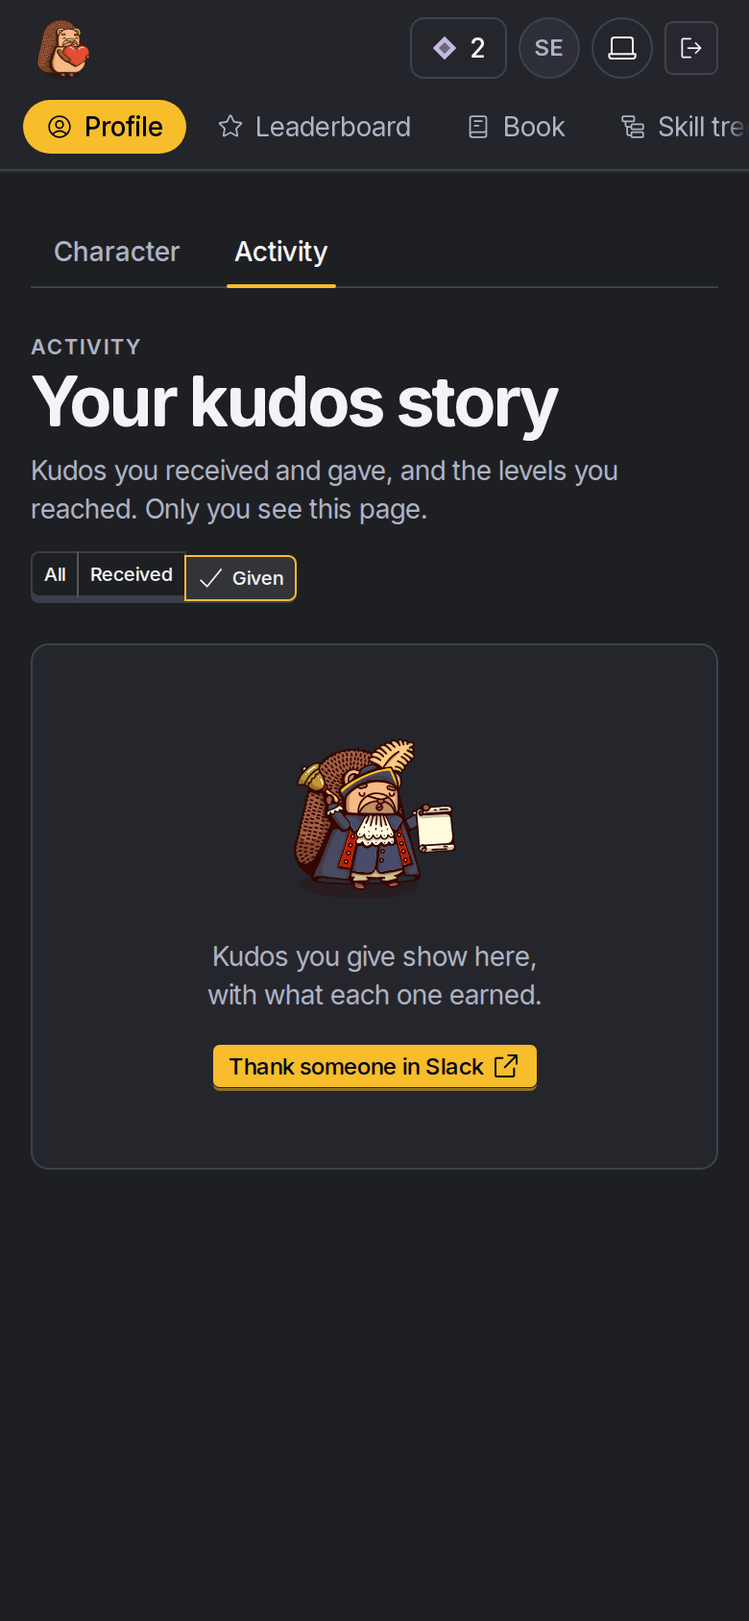
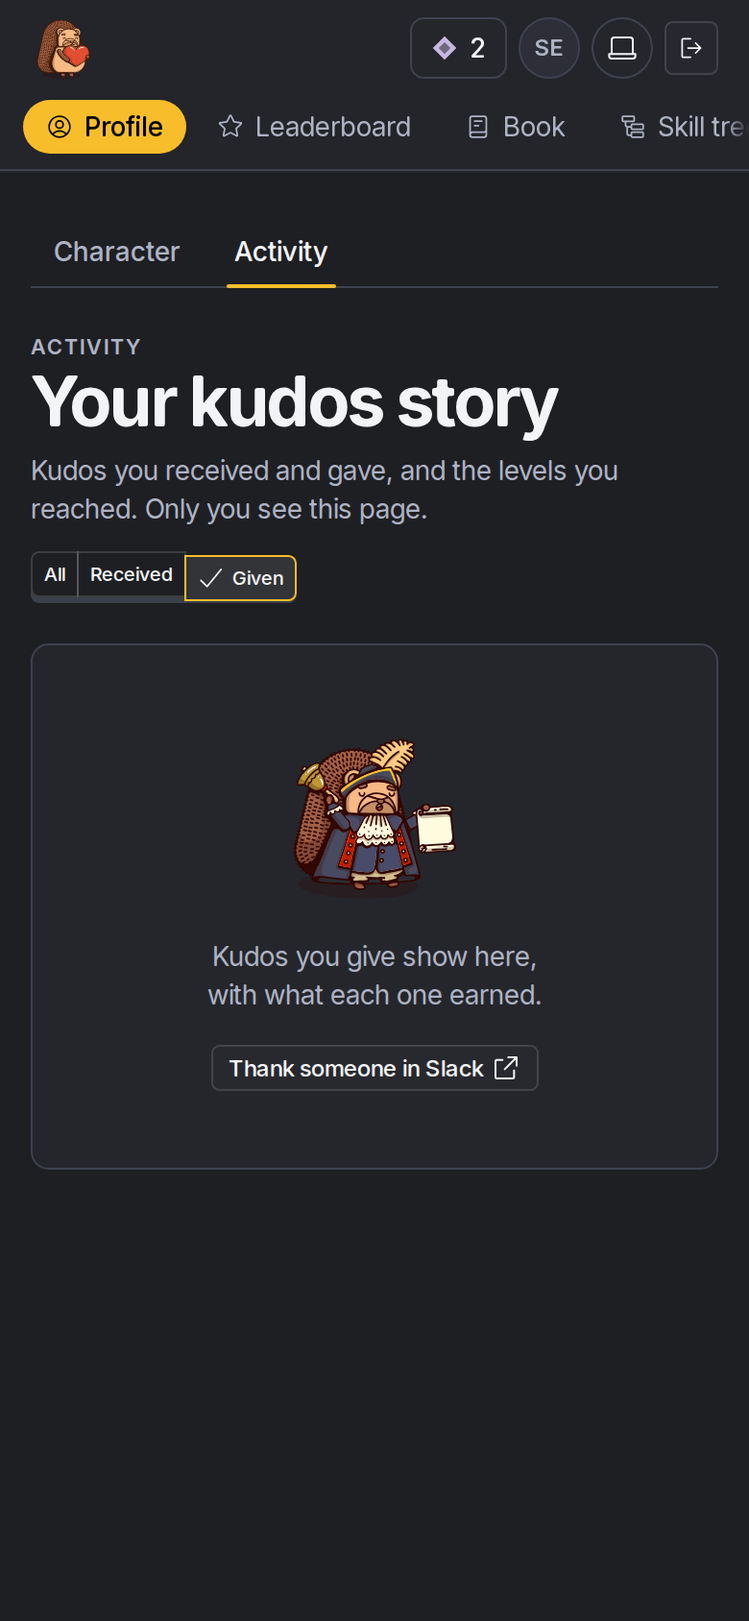
Take the review: an outline action on the empty timeline, a real focus-transfer test, a scoped hedgehog check and the spec clause
From the GPT-6.1 Sol review of #487: the selected filter already carries primary, so the empty state's Slack action is outline (V4); the focus test now presses Show new activity and lands on the empty state; the hedgehog assertion counts one decorative illustration; Website.spec.md names the empty timeline.

Changed region(s): [[0.2769, 0.6469, 0.7385, 0.6777]]

diff --git a/website/src/ActivityPage.test.tsx b/website/src/ActivityPage.test.tsx
@@ -541,6 +541,19 @@ describe("WS214: Show new activity", () => {
     expect(within(main()).queryByRole("button", { name: "Show new activity" })).not.toBeInTheDocument();
   });
 
+  it("lands on Max's empty state, and keeps it focused, when the newest page answers nothing because the raised kudos went away (#481 3)", async () => {
+    const { user, pages, watcher, showVisitor } = await openedWatching(aPage([aReceived("new", now - minute, { giver: teammates.eli }), ...shown], null));
+    await pages.answer(0, aPage(shown, null));
+    await user.click(within(main()).getByRole("button", { name: "Show new activity" }));
+    watcher.state.answer = aPage([], null);
+    showVisitor(member);
+    await pages.answer(1, aPage([], null));
+    const empty = main().querySelector("[data-timeline-empty]");
+    expect(empty).toHaveFocus();
+    expect(empty).toHaveTextContent("Your activity shows here once you thank someone or reach a level.");
+    expect(within(empty as HTMLElement).getByRole("link", { name: "Thank someone in Slack (opens in a new tab)" })).toBeInTheDocument();
+  });
+
   it("keeps focus on the page title while the newest page loads, and there when it fails", async () => {
     const { user, pages } = await openedWatching(aPage([aReceived("new", now - minute, { giver: teammates.eli }), ...shown], null));
     await pages.answer(0, aPage(shown, null));

diff --git a/website/src/statesPolish.test.tsx b/website/src/statesPolish.test.tsx
@@ -44,9 +44,14 @@ describe("#481 3 V23: an empty timeline is Max's empty state, with one hedgehog,
     await pages.answer(aPage([], null));
     const empty = main().querySelector<HTMLElement>("[data-timeline-empty]")!;
     expect(empty).toHaveTextContent(sentence);
-    expect(empty.querySelector("svg[aria-hidden='true'], svg")).not.toBeNull();
+    const illustrations = [...empty.children].filter((child) => child.tagName.toLowerCase() === "svg");
+    expect(illustrations).toHaveLength(1);
+    expect(illustrations[0]).toHaveAttribute("aria-hidden", "true");
+    expect(within(empty).queryByRole("img")).toBeNull();
     const action = within(empty).getByRole("link", { name: "Thank someone in Slack (opens in a new tab)" });
     expect(action).toHaveAttribute("href", member.chatUrl);
+    expect(action).toHaveClass("quill-button--variant-outline");
+    expect(main().querySelector(".quill-button--variant-primary")).toBeNull();
     expect(within(main()).getAllByRole("link", { name: /Thank someone in Slack/ })).toEqual([action]);
   });
 

diff --git a/website/src/pages/ActivityPage.tsx b/website/src/pages/ActivityPage.tsx
@@ -108,7 +108,7 @@ function EmptyTimeline({ filter, chatUrl }: { filter: ActivityFilter; chatUrl: s
     <section data-timeline-empty tabIndex={-1} aria-label="Nothing yet" className="flex flex-col items-center gap-4 rounded-lg border bg-card px-4 py-10 text-center outline-none focus-visible:ring-2 focus-visible:ring-ring">
       <HedgehogTownCrier size={96} title="" />
       <p className="max-w-md text-balance text-sm text-muted-foreground">{filterNamed(filter).empty}</p>
-      <SlackLink chatUrl={chatUrl} variant="primary">
+      <SlackLink chatUrl={chatUrl} variant="outline">
         Thank someone in Slack
       </SlackLink>
     </section>

diff --git a/website/Website.spec.md b/website/Website.spec.md
@@ -1,6 +1,6 @@
 # Website
 
-The browser package, the signed-in surface where a member sees their kudos beside App Home: a React shell in the PostHog brand, light and dark, with the HedgeHug logo beside the wordmark in its header, above the name on the closed page and as its favicon, and a sign-in page that stands alone without the header: a narrow card with the hand-clasp hedgehog above the name, a full-width primary action to Slack and, while a deep link to a listed path waits, the path the member lands on afterwards, built by Vite and served from the deployment's own `*.convex.site` root by the static hosting component, after Slack's routes, with a strict Content Security Policy header on every HTML response. The shell holds no member data: it signs in with Slack through Convex Auth's React client and returns to the page the sign-in started from, keeping the one-time code in the query string until Convex Auth redeems it, renders one page from the one answer getMyProfile gives (closed, signed-out, verifying, unverified, not-a-member or member), where a member's home leads, only while getRecentKudos answers with its entries, with "Character" and "Activity" link tabs in a nav named "Your page", and then with a character header: the member's face as a portrait, while the answer carries a progression a neutral level ring filled to the level's share and named for the level and the XP to the next, then the member's name as the page title, the invitation to thank someone and its one action in Slack before every counter, while there is a progression a full-width neutral XP bar, the kudos left today as the header's one big number with a pip for each kudos of the base and the refill time, the lifetime given and received in one quiet line, and Max's line on this week; the same filled ring on the avatar, a link to `/`, while there is a level, and one panel in its own place for each feature with a page: the hero, the Journey, while getMyProfile carries an inventory an "Inventory" panel with the coin balance and a "Kudos emoji" section saying how many of its slots are filled, the owned items with the slot each sits in, and under "Not yours yet" the rest of its catalogue with the price in coins or the silver tier that gives each, a custom kudos emoji drawn as its Slack picture named by its name and as that name once the picture fails, with no Buy, and then the Book's and the tree's panels in the main column, and, in a right rail that follows the main column on narrow screens, the public profile card under "What teammates see" with the face, the name and "Lv {level}" while there is a level, and below them the best medals getProfileCard answers on the home, each in its tier's metal with the tier's word beside its name, saying that XP and received kudos stay with the member and, while the card answers but the Book has an unopened entry on the unlock path, that medals join the card only after the Book is opened, busy while getProfileCard loads and saying the medals didn't load when it fails, then, only while getRecentKudos answers with its entries, a private "Recent kudos" card with a Received and Given switch, Received on every load, listing the last three kudos either way with their faces, who thanked whom, the words clamped to two lines with links as text and the day, or a line saying where they will show, and "See all activity" linking to `/activity` on the chosen side, then the quests' and the leaderboard's panels. While the answer carries no unlock path, each panel is plain and locked, with the leaderboard's linking to its page while the answer says it is open; while it carries one, only the shipped features it lists have a panel: locked with the feature's hedgehog in silhouette under a padlock, "Unlocks at level {level}" and no progress, ready as its closed crate labelled with what it unlocks and an outline "Open" inside corner marks, or open: the Book's and the tree's with their line, which for the tree counts the skill points to spend, and a link to its page; the quests' as "Quests this week" from the getQuests answer the shell already holds, each quest's goal linking to `/quests` with a neutral progressbar while in progress, "Claim" linking to that quest's card while finished and "Claimed" once opened, as on the quests page, or Max's line and an outline action to Slack when nothing was drawn, then the bonus quest getQuests answers as the last row, tagged "New", with "Claim" beside it while finished, linking to its card at `/quests?quest=journey`; and the leaderboard's as "Where you stand" from one getLeaderboard subscription for this week, with the member's rank, "tied" when tied, and the faces and kudos given of the rows above and below, or the leaderboard page's own line while unranked or off the boards. Each of those two reads has one rendering per answer: busy while it loads, "Can't reach HedgeHug" in place of the home once the socket stays unconnected before it answers, the locked or ready panel while it says so before getMyProfile does, nothing when not found or denied, and only the link to its page when it fails. While the answer carries Journey steps, a Journey panel sits between the hero and the Book panel, listing each active step's goal, hint and XP, a finished step as its reward crate with an outline "Open", and an opened one as done, with no step count. The path picks the page: the home at `/`, the leaderboard at `/leaderboard` with its period in the query string, the quests at `/quests`, the Book at `/book` with its page in the query string, the skill tree at `/skills`, the member's activity at `/activity` with its filter in the query string, and the not-found page everywhere else. The screen nav links `/` as `Profile`, then lists each shipped feature that has a page in the path's order: an open one as a link, a ready one as a button that opens its crate, and a locked one as an entry that is not a link and names its level, the first marked as the next unlock, and its page renders the one answer getLeaderboard gives for the period: the board card with the member's standing, a headline naming the lead, a neutral podium where a tie stands level, the rest of the window with a gap line, the whole board centred on the member with their row pinned and "Jump to me" while it is scrolled away, at the top of the side column, while getSpotlight answers, one public kudos that said why under "A thank-you from your workspace", drawn once per visit of the board by a one-shot read from a random seed and never changed without a press: the giver's face, who thanked whom, the whole message with live links, its date and "Open in Slack" while it has a permalink, and an outline "Next" as its only control, which reads the kudos after the shown one, follows skipped answers at once up to ten a press and resumes from the last one, and says in the message area, live after the first press, the new kudos, that it is the only one so far, or that none was found; Max's line when none qualifies yet or the first draw fails, with "Try again" after a failure, and no panel while the read answers not found; the private improvement line and how it counts, naming achievements, and coins while the profile carries them, among what never ranks anyone, with a switch "Show me on the leaderboards" whose position always follows the answer's setting, never the value sent, which sends setBoardVisibility once over HTTP, never through the socket's queue that replays an unanswered mutation after a reconnect, is disabled while the call is pending, never sends again by itself, shows its switched-off track and thumb and its keyboard focus at 3:1, and says the setting it set while the read shows it, a refusal or an unreachable server until the read shows what the member asked for, each line retired once the read has moved past it, in a live region that stays in the accessibility tree while empty, and, for a member off the board by choice, a line in place of their row pointing to that switch, or one hedgehog and an action to Slack when nobody is ranked; while the answer is locked, Max says that sentence instead, with a link home, and while it is ready, the page shows the crate with a primary "Open" in its place. The activity page shows only while one live getActivity subscription for the filter's newest page answers with its entries, and is not found while it answers not-found: the same tabs with "Activity" current while the screen nav keeps its first entry current, the title "Your kudos story", a "Show" switch of All, Received and Given that replaces the address and starts again from the newest page, then the entries in the read's order under centred day headings in the answer's time zone, laid out like a chat whose sides come from styling alone, so reading and focus order never take one side first, each page read once with getActivity's cursor, 20 at a time: a kudos received on the left, its words in a card-coloured bubble at most four fifths of the width with the giver's face beside it, then a "Private channel" tag only while its channel is private, never while it is unknown, a "Said why" tag and "Open in Slack" while it has a link; a kudos given on the right, its words in a primary-tinted bubble of the same width, then up to three recipients' faces and what it earned: its XP, each perk bonus with what it pays for, and each quest it finished, then the same tags, the names and the kudos each heading it; and a level reached as a ring on a centred rule with the level. Every kudos message draws each emoji from the first source it has: for a skin-toned name, the character the shortcode table Slack follows gives that name with its tone, then Slack's unicode, then the picture, then the table's character for the name without its tone; for any other name, Slack's unicode, then the picture, then the table's character by name or alias; the picture is a custom workspace emoji's, at text size and named by its name between colons, and an emoji with none of these, or whose picture fails to load, shows that name in a quiet chip. It never moves what it shows by itself: while the subscription holds an entry it doesn't show or a changed one, an outline "Show new activity" starts it again, a visible "Load more" and an intersection observer read the next page, focus moves to the first new entry only when the member pressed "Load more" and still holds it, and the end is a closing line that takes the button's focus; a failed page says so with "Try again", and each says what happened in a live region. The quests page renders the one answer getQuests gives the same way: this week's quest cards with their kind, goal, a neutral progressbar, the XP and, while the read carries them, the coins with the coin glyph, as the bonus quest, the home's quest rows and the Journey's active steps also show them, while a closed crate never shows them, and a "Swapped" tag, a finished quest as its reward crate with an "Open", primary for the first crate on the page, and an opened one as done, the crates of earlier weeks waiting to open, each with the week it is from in the browser's language and an "Open", one hedgehog and an action to Slack when nothing was drawn, while the week's swap is available, a muted "Swap" on each quest in progress that sends swapQuest with the slot's own quest from the read, reads "Swapping…" until it answers, and resends the same quest after an unreachable server, with "1 swap left this week" or "Swap used this week" in the header, a refusal or an unreachable server said on the quest's card and in a live region, kept on the card when the swap is gone and with focus on its heading when its Swap went away, and, once swapped and the read shows the new quest, also after an unreachable server, its goal said in the live region and focus on its heading, then, while getQuests answers a bonus, a "Bonus quest" section with the Journey's next step as a card tagged "New" while active, with its goal, its hint, its XP, a link to its feature's page while that page is open for the member and isn't the quests page, and its crate with a "Claim" while finished, which `/quests?quest=journey` scrolls to, and how quests work, with no group quest. The Book page renders the one answer getBook gives the same way: a page index, a sticky column on wide screens and a native select on narrow ones, marking the current page; under the title "Achievements" on the overview, one plain card per ladder in the answer's order, and on each category's page only its ladders under its name and blurb, with the ladder's hedgehog emblem in silhouette until a tier is earned, a neutral progressbar to the next tier, and its four tiers, each a neutral metal medal with one to four pips and its word, the date it was earned in the member's time zone, or the count it needs, the next one tagged "Next"; it shows no total, no closest next tier and no reward. The skill tree page renders the one answer getSkillTree gives the same way: how many of its perks are owned, the skill points to spend, the skill points, the coins while the read carries them, and the level as chips, a legend of owned, can-buy and locked, with upgraded between them while the tree has an upgrade, one band per row of the read with each upgrade under the perk it upgrades and joined to it by a connector, solid once both are owned, each perk a compact square button that names its state and its cost in skill points and coins, a replaced base drawn as upgraded with its upgrade's name under it, is outlined in the foreground colour while it can be bought, keeps primary for the chosen one and says so in a visible label while chosen, the chosen perk's details beside the tree on wide screens and in a drawer on narrow ones, with its copy word for word and no empty line for empty copy, its level, its cost, the perk it upgrades, and then when it was bought, that its upgrade took it over, why it can't be bought yet, or a primary button that sends buyPerk and resends the same request after an unreachable server, with what was bought, a refusal or an unreachable server said in a live region, the perk chosen again for every answer, a refusal or an unreachable server said visibly in the page's live region while a narrow screen's details are closed, a refusal without a reason or an unreachable server kept beside the perk until the read shows it owned, and focus on the perk's details once it is bought, which pops once outside reduced motion, the active perks, never a replaced base, in purchase order under their count, each upgrade with the base it replaced, and how perks work; while the profile carries skill points, the HUD shows their count as a link to `/skills`, and while it carries coins, their count after it, named and titled as the coins to spend, holding back a claimed quest's coins until they fly onto it after its XP, or fade in under reduced motion. A crate's "Open", and the HUD's ready pill, which counts the ready features, then the Journey's, this week's and earlier weeks' quest crates, and takes the first, send openFeature or openQuestCrate with the crate's own quest from the read and say "Opening…" until it answers: only "opened" plays the full-screen reveal, once per member and crate in this browser by the read's opaque seen key, in which the crate charges and bursts open under the HUD, which stays in view above it, and each reward the open earned pops out of the crate and flies into the HUD home that holds it, the level ring, the skill point chip or the coins chip, which the page holds short of that reward until it lands and then counts up, however the crate was opened, while a closed crate names only its kind, never what is inside; skipped by a click or a key, which lands every reward at once, shown at once under reduced motion with every reward landed, with a button to play it again and one to close it, a quest crate's labelled "Quest reward" or "Journey reward" with "You earned {xp} XP", or "You earned {xp} XP and {n} coins" with one chip per reward kind, and a link to this week's quests while Quests is open and the reveal didn't start on /quests, and focus back on the feature's card, the quest's card, the Journey step or the page title; a refusal or an unreachable server is said in a live region, which also says what opened. It shows "Sign-in didn't finish" when a sign-in this browser started comes back signed out or Convex Auth's redemption of the one-time code Slack's return brings is rejected, which Convex Auth drops unhandled and would otherwise leave loading forever, shows "Can't reach HedgeHug" when the socket to the deployment stays unconnected for five seconds while the answer is still loading, sets the theme from a blocking script in the page's head before the first paint, signs out from its own button in the header, opens a modal dialog for a member on Ctrl K, ⌘ K on Apple platforms, or the dashed chip that leads the header's right side, but not while another text field has focus, where typing a page's name or alias does what its nav entry does or says the level a locked one opens at, `theme light`, `theme dark` and `theme system` set the theme the header shows, `signout` signs out, `help` lists them all, and anything else gets Max's line, and moves focus to the page title when the answer changes. On a visit where the member's XP grew since this browser last saw it, kept per member under the read's opaque seen keys, the header starts at the last-seen XP and skill points, and the XP since then flies from the Recent kudos card, or the page title without it, into the XP bar: the kudos given since then oldest first from one getActivity read, the rest as one last chip, at most four, never a quest's XP still waiting in a crate, and only once per change, so a reload or another tab stays still; under reduced motion it shows the totals at once with a line saying what grew. A level reached on the website, at the end of that climb, from a crate or while the page is open, plays one celebration that names the level, the skill points it earned and the features it made ready, never takes a click or focus, leaves within three seconds, is calm under reduced motion, and is said once in a live region; a fixture build renders the same pages from typed fixtures.
+The browser package, the signed-in surface where a member sees their kudos beside App Home: a React shell in the PostHog brand, light and dark, with the HedgeHug logo beside the wordmark in its header, above the name on the closed page and as its favicon, and a sign-in page that stands alone without the header: a narrow card with the hand-clasp hedgehog above the name, a full-width primary action to Slack and, while a deep link to a listed path waits, the path the member lands on afterwards, built by Vite and served from the deployment's own `*.convex.site` root by the static hosting component, after Slack's routes, with a strict Content Security Policy header on every HTML response. The shell holds no member data: it signs in with Slack through Convex Auth's React client and returns to the page the sign-in started from, keeping the one-time code in the query string until Convex Auth redeems it, renders one page from the one answer getMyProfile gives (closed, signed-out, verifying, unverified, not-a-member or member), where a member's home leads, only while getRecentKudos answers with its entries, with "Character" and "Activity" link tabs in a nav named "Your page", and then with a character header: the member's face as a portrait, while the answer carries a progression a neutral level ring filled to the level's share and named for the level and the XP to the next, then the member's name as the page title, the invitation to thank someone and its one action in Slack before every counter, while there is a progression a full-width neutral XP bar, the kudos left today as the header's one big number with a pip for each kudos of the base and the refill time, the lifetime given and received in one quiet line, and Max's line on this week; the same filled ring on the avatar, a link to `/`, while there is a level, and one panel in its own place for each feature with a page: the hero, the Journey, while getMyProfile carries an inventory an "Inventory" panel with the coin balance and a "Kudos emoji" section saying how many of its slots are filled, the owned items with the slot each sits in, and under "Not yours yet" the rest of its catalogue with the price in coins or the silver tier that gives each, a custom kudos emoji drawn as its Slack picture named by its name and as that name once the picture fails, with no Buy, and then the Book's and the tree's panels in the main column, and, in a right rail that follows the main column on narrow screens, the public profile card under "What teammates see" with the face, the name and "Lv {level}" while there is a level, and below them the best medals getProfileCard answers on the home, each in its tier's metal with the tier's word beside its name, saying that XP and received kudos stay with the member and, while the card answers but the Book has an unopened entry on the unlock path, that medals join the card only after the Book is opened, busy while getProfileCard loads and saying the medals didn't load when it fails, then, only while getRecentKudos answers with its entries, a private "Recent kudos" card with a Received and Given switch, Received on every load, listing the last three kudos either way with their faces, who thanked whom, the words clamped to two lines with links as text and the day, or a line saying where they will show, and "See all activity" linking to `/activity` on the chosen side, then the quests' and the leaderboard's panels. While the answer carries no unlock path, each panel is plain and locked, with the leaderboard's linking to its page while the answer says it is open; while it carries one, only the shipped features it lists have a panel: locked with the feature's hedgehog in silhouette under a padlock, "Unlocks at level {level}" and no progress, ready as its closed crate labelled with what it unlocks and an outline "Open" inside corner marks, or open: the Book's and the tree's with their line, which for the tree counts the skill points to spend, and a link to its page; the quests' as "Quests this week" from the getQuests answer the shell already holds, each quest's goal linking to `/quests` with a neutral progressbar while in progress, "Claim" linking to that quest's card while finished and "Claimed" once opened, as on the quests page, or Max's line and an outline action to Slack when nothing was drawn, then the bonus quest getQuests answers as the last row, tagged "New", with "Claim" beside it while finished, linking to its card at `/quests?quest=journey`; and the leaderboard's as "Where you stand" from one getLeaderboard subscription for this week, with the member's rank, "tied" when tied, and the faces and kudos given of the rows above and below, or the leaderboard page's own line while unranked or off the boards. Each of those two reads has one rendering per answer: busy while it loads, "Can't reach HedgeHug" in place of the home once the socket stays unconnected before it answers, the locked or ready panel while it says so before getMyProfile does, nothing when not found or denied, and only the link to its page when it fails. While the answer carries Journey steps, a Journey panel sits between the hero and the Book panel, listing each active step's goal, hint and XP, a finished step as its reward crate with an outline "Open", and an opened one as done, with no step count. The path picks the page: the home at `/`, the leaderboard at `/leaderboard` with its period in the query string, the quests at `/quests`, the Book at `/book` with its page in the query string, the skill tree at `/skills`, the member's activity at `/activity` with its filter in the query string, and the not-found page everywhere else. The screen nav links `/` as `Profile`, then lists each shipped feature that has a page in the path's order: an open one as a link, a ready one as a button that opens its crate, and a locked one as an entry that is not a link and names its level, the first marked as the next unlock, and its page renders the one answer getLeaderboard gives for the period: the board card with the member's standing, a headline naming the lead, a neutral podium where a tie stands level, the rest of the window with a gap line, the whole board centred on the member with their row pinned and "Jump to me" while it is scrolled away, at the top of the side column, while getSpotlight answers, one public kudos that said why under "A thank-you from your workspace", drawn once per visit of the board by a one-shot read from a random seed and never changed without a press: the giver's face, who thanked whom, the whole message with live links, its date and "Open in Slack" while it has a permalink, and an outline "Next" as its only control, which reads the kudos after the shown one, follows skipped answers at once up to ten a press and resumes from the last one, and says in the message area, live after the first press, the new kudos, that it is the only one so far, or that none was found; Max's line when none qualifies yet or the first draw fails, with "Try again" after a failure, and no panel while the read answers not found; the private improvement line and how it counts, naming achievements, and coins while the profile carries them, among what never ranks anyone, with a switch "Show me on the leaderboards" whose position always follows the answer's setting, never the value sent, which sends setBoardVisibility once over HTTP, never through the socket's queue that replays an unanswered mutation after a reconnect, is disabled while the call is pending, never sends again by itself, shows its switched-off track and thumb and its keyboard focus at 3:1, and says the setting it set while the read shows it, a refusal or an unreachable server until the read shows what the member asked for, each line retired once the read has moved past it, in a live region that stays in the accessibility tree while empty, and, for a member off the board by choice, a line in place of their row pointing to that switch, or one hedgehog and an action to Slack when nobody is ranked; while the answer is locked, Max says that sentence instead, with a link home, and while it is ready, the page shows the crate with a primary "Open" in its place. The activity page shows only while one live getActivity subscription for the filter's newest page answers with its entries, and is not found while it answers not-found: the same tabs with "Activity" current while the screen nav keeps its first entry current, the title "Your kudos story", a "Show" switch of All, Received and Given that replaces the address and starts again from the newest page, then the entries in the read's order under centred day headings in the answer's time zone, laid out like a chat whose sides come from styling alone, so reading and focus order never take one side first, each page read once with getActivity's cursor, 20 at a time: a kudos received on the left, its words in a card-coloured bubble at most four fifths of the width with the giver's face beside it, then a "Private channel" tag only while its channel is private, never while it is unknown, a "Said why" tag and "Open in Slack" while it has a link; a kudos given on the right, its words in a primary-tinted bubble of the same width, then up to three recipients' faces and what it earned: its XP, each perk bonus with what it pays for, and each quest it finished, then the same tags, the names and the kudos each heading it; and a level reached as a ring on a centred rule with the level. Every kudos message draws each emoji from the first source it has: for a skin-toned name, the character the shortcode table Slack follows gives that name with its tone, then Slack's unicode, then the picture, then the table's character for the name without its tone; for any other name, Slack's unicode, then the picture, then the table's character by name or alias; the picture is a custom workspace emoji's, at text size and named by its name between colons, and an emoji with none of these, or whose picture fails to load, shows that name in a quiet chip. It never moves what it shows by itself: while the subscription holds an entry it doesn't show or a changed one, an outline "Show new activity" starts it again, a visible "Load more" and an intersection observer read the next page, focus moves to the first new entry only when the member pressed "Load more" and still holds it, and the end is a closing line that takes the button's focus, while an empty timeline is one hedgehog, the filter's sentence and one outline action to Slack in a card that is the landing place instead; a failed page says so with "Try again", and each says what happened in a live region. The quests page renders the one answer getQuests gives the same way: this week's quest cards with their kind, goal, a neutral progressbar, the XP and, while the read carries them, the coins with the coin glyph, as the bonus quest, the home's quest rows and the Journey's active steps also show them, while a closed crate never shows them, and a "Swapped" tag, a finished quest as its reward crate with an "Open", primary for the first crate on the page, and an opened one as done, the crates of earlier weeks waiting to open, each with the week it is from in the browser's language and an "Open", one hedgehog and an action to Slack when nothing was drawn, while the week's swap is available, a muted "Swap" on each quest in progress that sends swapQuest with the slot's own quest from the read, reads "Swapping…" until it answers, and resends the same quest after an unreachable server, with "1 swap left this week" or "Swap used this week" in the header, a refusal or an unreachable server said on the quest's card and in a live region, kept on the card when the swap is gone and with focus on its heading when its Swap went away, and, once swapped and the read shows the new quest, also after an unreachable server, its goal said in the live region and focus on its heading, then, while getQuests answers a bonus, a "Bonus quest" section with the Journey's next step as a card tagged "New" while active, with its goal, its hint, its XP, a link to its feature's page while that page is open for the member and isn't the quests page, and its crate with a "Claim" while finished, which `/quests?quest=journey` scrolls to, and how quests work, with no group quest. The Book page renders the one answer getBook gives the same way: a page index, a sticky column on wide screens and a native select on narrow ones, marking the current page; under the title "Achievements" on the overview, one plain card per ladder in the answer's order, and on each category's page only its ladders under its name and blurb, with the ladder's hedgehog emblem in silhouette until a tier is earned, a neutral progressbar to the next tier, and its four tiers, each a neutral metal medal with one to four pips and its word, the date it was earned in the member's time zone, or the count it needs, the next one tagged "Next"; it shows no total, no closest next tier and no reward. The skill tree page renders the one answer getSkillTree gives the same way: how many of its perks are owned, the skill points to spend, the skill points, the coins while the read carries them, and the level as chips, a legend of owned, can-buy and locked, with upgraded between them while the tree has an upgrade, one band per row of the read with each upgrade under the perk it upgrades and joined to it by a connector, solid once both are owned, each perk a compact square button that names its state and its cost in skill points and coins, a replaced base drawn as upgraded with its upgrade's name under it, is outlined in the foreground colour while it can be bought, keeps primary for the chosen one and says so in a visible label while chosen, the chosen perk's details beside the tree on wide screens and in a drawer on narrow ones, with its copy word for word and no empty line for empty copy, its level, its cost, the perk it upgrades, and then when it was bought, that its upgrade took it over, why it can't be bought yet, or a primary button that sends buyPerk and resends the same request after an unreachable server, with what was bought, a refusal or an unreachable server said in a live region, the perk chosen again for every answer, a refusal or an unreachable server said visibly in the page's live region while a narrow screen's details are closed, a refusal without a reason or an unreachable server kept beside the perk until the read shows it owned, and focus on the perk's details once it is bought, which pops once outside reduced motion, the active perks, never a replaced base, in purchase order under their count, each upgrade with the base it replaced, and how perks work; while the profile carries skill points, the HUD shows their count as a link to `/skills`, and while it carries coins, their count after it, named and titled as the coins to spend, holding back a claimed quest's coins until they fly onto it after its XP, or fade in under reduced motion. A crate's "Open", and the HUD's ready pill, which counts the ready features, then the Journey's, this week's and earlier weeks' quest crates, and takes the first, send openFeature or openQuestCrate with the crate's own quest from the read and say "Opening…" until it answers: only "opened" plays the full-screen reveal, once per member and crate in this browser by the read's opaque seen key, in which the crate charges and bursts open under the HUD, which stays in view above it, and each reward the open earned pops out of the crate and flies into the HUD home that holds it, the level ring, the skill point chip or the coins chip, which the page holds short of that reward until it lands and then counts up, however the crate was opened, while a closed crate names only its kind, never what is inside; skipped by a click or a key, which lands every reward at once, shown at once under reduced motion with every reward landed, with a button to play it again and one to close it, a quest crate's labelled "Quest reward" or "Journey reward" with "You earned {xp} XP", or "You earned {xp} XP and {n} coins" with one chip per reward kind, and a link to this week's quests while Quests is open and the reveal didn't start on /quests, and focus back on the feature's card, the quest's card, the Journey step or the page title; a refusal or an unreachable server is said in a live region, which also says what opened. It shows "Sign-in didn't finish" when a sign-in this browser started comes back signed out or Convex Auth's redemption of the one-time code Slack's return brings is rejected, which Convex Auth drops unhandled and would otherwise leave loading forever, shows "Can't reach HedgeHug" when the socket to the deployment stays unconnected for five seconds while the answer is still loading, sets the theme from a blocking script in the page's head before the first paint, signs out from its own button in the header, opens a modal dialog for a member on Ctrl K, ⌘ K on Apple platforms, or the dashed chip that leads the header's right side, but not while another text field has focus, where typing a page's name or alias does what its nav entry does or says the level a locked one opens at, `theme light`, `theme dark` and `theme system` set the theme the header shows, `signout` signs out, `help` lists them all, and anything else gets Max's line, and moves focus to the page title when the answer changes. On a visit where the member's XP grew since this browser last saw it, kept per member under the read's opaque seen keys, the header starts at the last-seen XP and skill points, and the XP since then flies from the Recent kudos card, or the page title without it, into the XP bar: the kudos given since then oldest first from one getActivity read, the rest as one last chip, at most four, never a quest's XP still waiting in a crate, and only once per change, so a reload or another tab stays still; under reduced motion it shows the totals at once with a line saying what grew. A level reached on the website, at the end of that climb, from a crate or while the page is open, plays one celebration that names the level, the skill points it earned and the features it made ready, never takes a click or focus, leaves within three seconds, is calm under reduced motion, and is said once in a live region; a fixture build renders the same pages from typed fixtures.
 
 ## entrances
 - route GET /*: a browser asks for a page or a built asset of the website; a path without a file falls back to the shell

diff --git a/website/proof/design-polish-2/states/review-gpt-6.1-sol.md b/website/proof/design-polish-2/states/review-gpt-6.1-sol.md
@@ -1,0 +1,12 @@
+1. **Should fix — [ActivityPage.tsx:111](/tmp/dp2/review2/tree/website/src/pages/ActivityPage.tsx:111): competing primary accents.** The selected filter explicitly retains `border-primary` at line 63; `variant="outline"` does not remove that. The new primary Slack link therefore competes with the selection under V4. Smallest fix: make the Slack action outline—V23 requires an action, but does not require primary styling.
+
+2. **Should fix — [statesPolish.test.tsx:53](/tmp/dp2/review2/tree/website/src/statesPolish.test.tsx:53): the focus test never exercises focus transfer.** Checking `tabindex="-1"` would pass even if the refresh stopped focusing the empty state. Smallest fix: extend the existing activity interaction harness to press “Show new activity,” resolve that read empty, and assert `toHaveFocus()` on the empty container.
+
+3. **Nit — [statesPolish.test.tsx:47](/tmp/dp2/review2/tree/website/src/statesPolish.test.tsx:47): the illustration assertion can pass without a hedgehog.** The selector accepts any SVG, including `SlackLink`’s external-link icon. It also checks neither exactly one illustration nor decorative accessibility. Smallest fix: scope the assertion to the illustration and check its count and hidden semantics.
+
+4. **Nit — [Website.spec.md:3](/tmp/dp2/review2/tree/website/Website.spec.md:3): the new empty-state contract is undocumented.** In this supplied checkout, the activity sentence’s “closing line” describes the populated timeline’s end; it does not explicitly require a line for the empty state. Smallest fix: add a clause describing the empty illustration, filter-specific sentence, Slack action, and focus landing.
+
+The named section is reasonable for the timeline’s empty state; `tabIndex={-1}` and the hedgehog’s empty title are appropriate. Received/given copy remains accurate, though Received’s Slack action invites giving rather than directly filling that filter, as V23 requires. Existing axe coverage reaches the new card in both themes; live-shell and fixture wiring need no additional prop changes. Tests and builds were not run.
+
+Verdict: Not mergeable as is; fix the primary-accent conflict and verify the actual focus transition.
+
